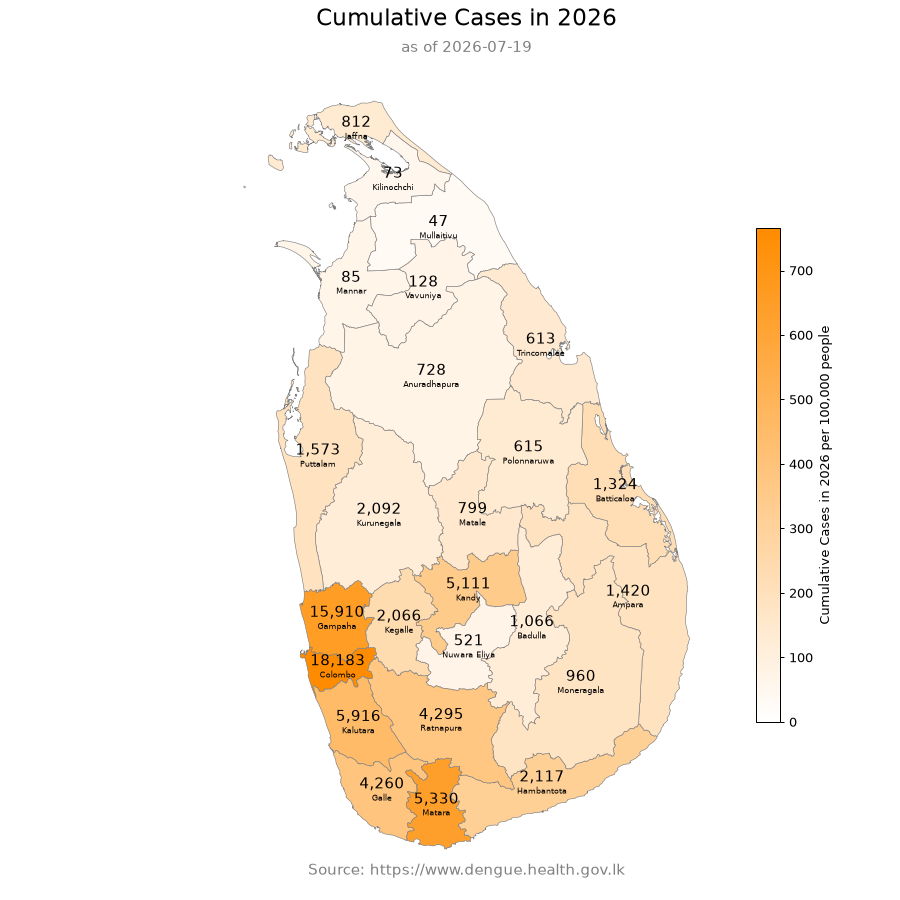
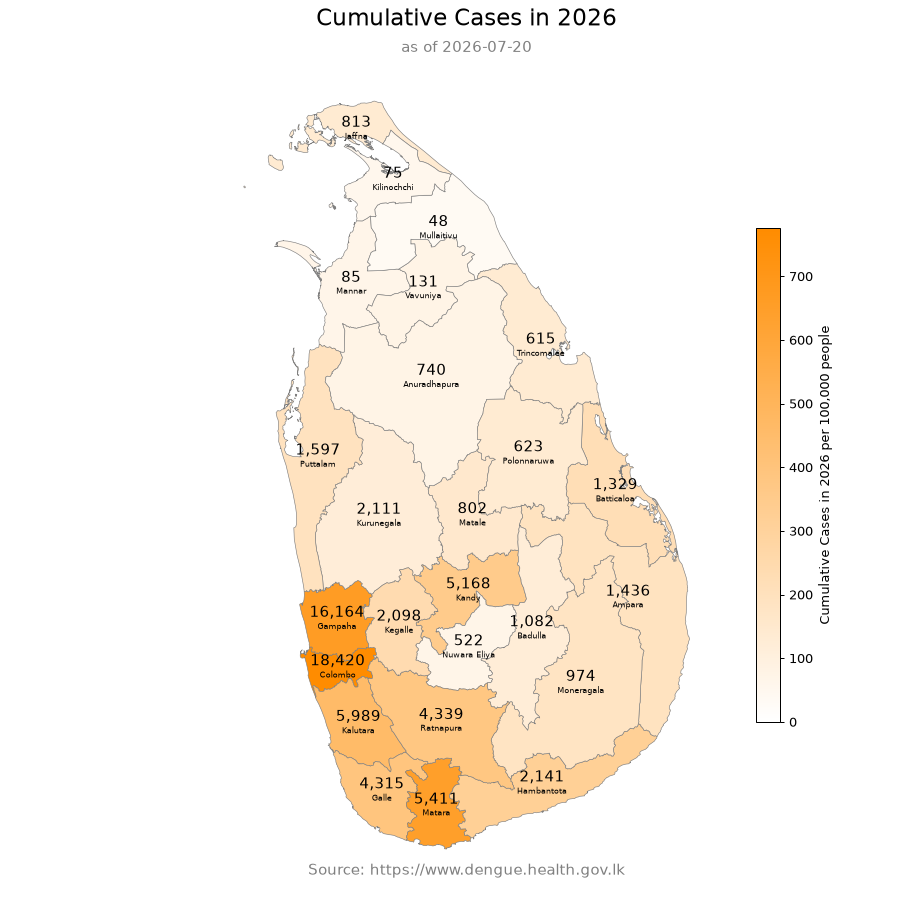
🤖 [pipeline.yml] 2026-07-21-0536

diff --git a/README.md b/README.md
@@ -264,6 +264,7 @@ As of 2026-07-12
 
 ### [National Dengue Control Unit - Daily Update](data/NDCUDaily)
 
+- [2026-07-20](data/NDCUDaily/2026/2026-07/2026-07-20)
 - [2026-07-19](data/NDCUDaily/2026/2026-07/2026-07-19)
 - [2026-07-18](data/NDCUDaily/2026/2026-07/2026-07-18)
 - [2026-07-17](data/NDCUDaily/2026/2026-07/2026-07-17)
